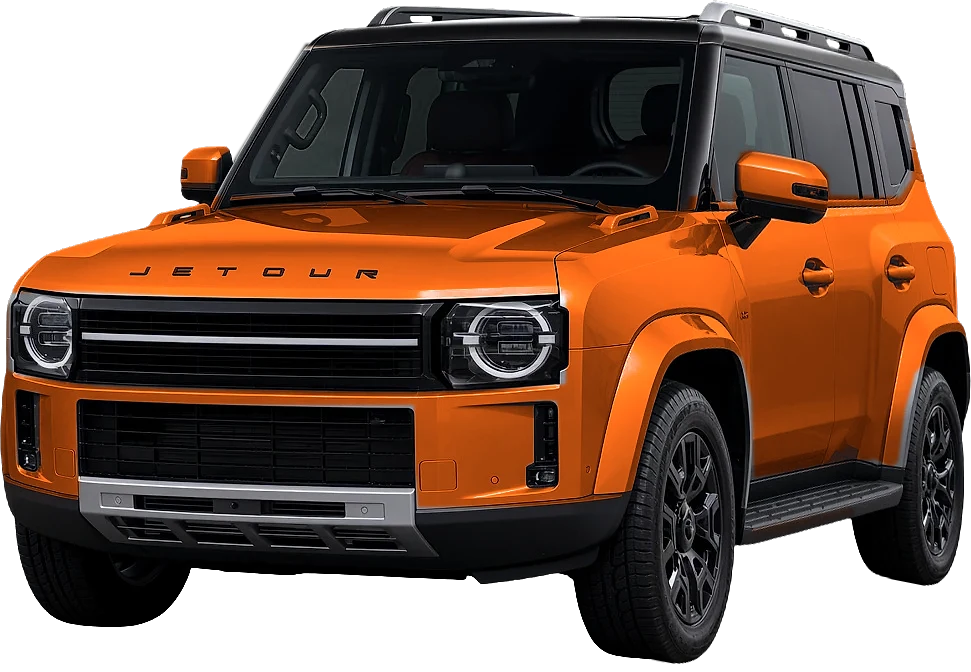
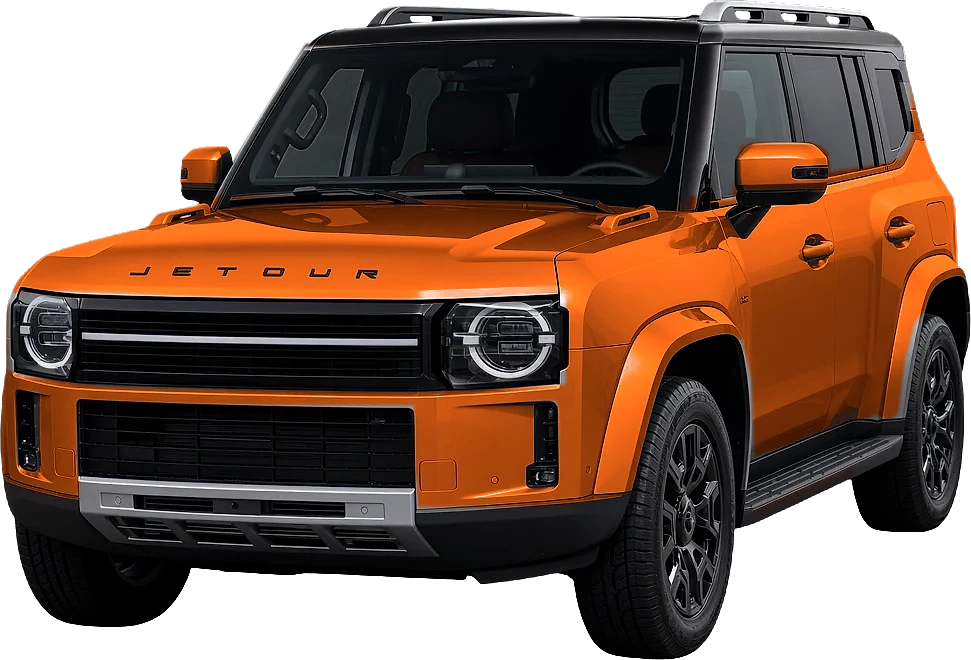
Fix Jetour hero wavy look and add Zeal brand.
Drop the side-shear that bent the car body, keep the live Jetour angle, and list Zeal with its logo for products later.

diff --git a/src/components/hero-car.tsx b/src/components/hero-car.tsx
@@ -20,17 +20,17 @@ function maskStyle(src: string): CSSProperties {
 }
 
 /**
- * Where the tyres touch the floor in the car images (971x672), in percent of its box: far front (11.3%, 93.2%),
- * near front (68%, 98.2%) and rear (94.2%, 86.9%). The rear tyre sits higher because it is further away.
+ * Where the tyres touch the floor in the car images (971x660), in percent of its box: far front (11.3%, 94.8%),
+ * near front (67.5%, 99.7%) and rear (93.2%, 80.5%). No side shear — that made the body look wavy.
  */
 const contactShadow: CSSProperties = {
   backgroundImage: [
-    "radial-gradient(5.5% 1% at 68% 98%, rgb(0 0 0), transparent)",
-    "radial-gradient(3.5% 0.9% at 94.2% 86.8%, rgb(0 0 0), transparent)",
-    "radial-gradient(5% 0.9% at 11.3% 93.1%, rgb(0 0 0), transparent)",
-    "radial-gradient(10% 2.5% at 68% 97.5%, rgb(0 0 0 / 0.9), transparent)",
-    "radial-gradient(7% 2.5% at 93.7% 86.9%, rgb(0 0 0 / 0.95), transparent)",
-    "radial-gradient(9% 2.4% at 11.3% 92.9%, rgb(0 0 0 / 0.9), transparent)",
+    "radial-gradient(5.5% 1% at 67.5% 99.5%, rgb(0 0 0), transparent)",
+    "radial-gradient(3.5% 0.9% at 93.2% 80.4%, rgb(0 0 0), transparent)",
+    "radial-gradient(5% 0.9% at 11.3% 94.7%, rgb(0 0 0), transparent)",
+    "radial-gradient(10% 2.5% at 67.5% 99%, rgb(0 0 0 / 0.9), transparent)",
+    "radial-gradient(7% 2.5% at 92.7% 80.5%, rgb(0 0 0 / 0.95), transparent)",
+    "radial-gradient(9% 2.4% at 11.3% 94.5%, rgb(0 0 0 / 0.9), transparent)",
   ].join(", "),
 };
 
@@ -39,9 +39,9 @@ const floorShade: CSSProperties = {
   backgroundImage: "radial-gradient(50% 50% at 55% 40%, rgb(0 0 0 / 0.6), rgb(0 0 0 / 0.25) 60%, transparent)",
 };
 
-/** Floor under the body, joining the three visible contact points and the hidden far rear tyre (about 37.6%, 81.8%). */
+/** Floor under the body, joining the three visible contact points and the hidden far rear tyre (about 37%, 75.6%). */
 const bodyShadowShape: CSSProperties = {
-  clipPath: "polygon(4% 91.4%, 11.3% 94.9%, 68% 99%, 96% 87.9%, 92% 84.4%, 37.6% 80.7%)",
+  clipPath: "polygon(4% 93%, 11.3% 96.5%, 67.5% 100.5%, 95% 81.5%, 91% 78%, 37% 74.5%)",
 };
 
 /**
@@ -49,8 +49,8 @@ const bodyShadowShape: CSSProperties = {
  * under the near front tyre: skewY(angle) scaleY(-1) mirrors about a line whose slope is half of tan(angle).
  */
 const reflectionHalves: CSSProperties[] = [
-  { clipPath: "inset(0 32% 0 0)", transformOrigin: "68% 98.2%", transform: "skewY(7deg) scaleY(-1)" },
-  { clipPath: "inset(0 0 0 68%)", transformOrigin: "68% 98.2%", transform: "skewY(-30.8deg) scaleY(-1)" },
+  { clipPath: "inset(0 32.5% 0 0)", transformOrigin: "67.5% 99.7%", transform: "skewY(6.7deg) scaleY(-1)" },
+  { clipPath: "inset(0 0 0 67.5%)", transformOrigin: "67.5% 99.7%", transform: "skewY(-45.5deg) scaleY(-1)" },
 ];
 
 const reflectionFade: CSSProperties = {
@@ -120,7 +120,7 @@ export function HeroCar({
 
   return (
     <div className="relative w-full lg:absolute lg:end-4 lg:bottom-[11%] lg:w-[48%]">
-      <div className="relative aspect-[971/672] w-full">
+      <div className="relative aspect-[971/660] w-full">
         <div className="absolute -inset-x-[6%] top-[72%] h-[40%] blur-lg" style={floorShade} aria-hidden />
         {reflectionHalves.map((half, index) => (
           <div

diff --git a/scripts/car-colours.ts b/scripts/car-colours.ts
@@ -25,20 +25,16 @@ const SPECULAR_FROM = 225;
 const SPECULAR_TO = 252;
 const SPECULAR_MAX = 0.75;
 /**
- * The render's camera is higher than the hero stage's, so its rear tyre touched the floor right at the stage
- * horizon and looked like it floated. The side of the car is sheared down behind the front corner: zero at the
- * corner, `SIDE_DROP` px at the rear tyre's contact point (x `REAR_CONTACT_X`). The front face does not move.
- * The corner runs from the A-pillar (x `CORNER_TOP`, above y `CORNER_TOP_Y`) to the near front tyre's contact
- * (x `CORNER_BOTTOM`, below y `CORNER_BOTTOM_Y`), so the windscreen and the front tyre's floor point stay put.
+ * Side shear used to drop the rear tyre onto the stage, but it made the Jetour body look wavy. Leave at 0 so the
+ * cut-out keeps its original shape. Constants stay for documentation if a future car needs the shear again.
  */
-const SIDE_DROP = 50;
+const SIDE_DROP = 0;
 const REAR_CONTACT_X = 905;
 const CORNER_TOP = 712;
 const CORNER_TOP_Y = 190;
 const CORNER_BOTTOM = 650;
 const CORNER_BOTTOM_Y = 330;
-/** Rows added under the cut-out, so the near front tyre's sheared back half is not cut off. */
-const BOTTOM_PAD = 12;
+const BOTTOM_PAD = 0;
 
 function toLinear(value: number): number {
   const v = value / 255;
@@ -139,8 +135,9 @@ async function main() {
       if (r > 0) paint(out, p, roofTarget, k * r);
     }
     const file = path.join("public", carImage(colour.id));
-    const result = await sharp(lowerSide(out, width, height), {
-      raw: { width, height: height + BOTTOM_PAD, channels: 4 },
+    const painted = SIDE_DROP === 0 ? out : lowerSide(out, width, height);
+    const result = await sharp(painted, {
+      raw: { width, height: height + (SIDE_DROP === 0 ? 0 : BOTTOM_PAD), channels: 4 },
     })
       .sharpen({ sigma: 0.6 })
       .webp({ quality: 88, alphaQuality: 100 })

diff --git a/PROJECT_CONTEXT.md b/PROJECT_CONTEXT.md
@@ -1,6 +1,6 @@
 # Project Context — Jabal Al Heerah Auto Paints
 
-Last updated: 2026-11-06
+Last updated: 2026-11-18
 
 ## What it is
 
@@ -108,6 +108,10 @@ Intro: Sharjah paint correction, colour matching, refinishing, detailing supplie
 
 ## Work log
 
+- 2026-11-18: Owner: keep the **live Jetour look**, only fix wavy alignment (side-angle experiment dropped). Restored `jetour-t2-base-3.jpg` pipeline at **971x660**, `SIDE_DROP = 0` (no body shear), hero contacts/reflections for the unsheared car. Not deployed.
+- 2026-11-18: Owner: show more of the Jetour's **side angle** (front can be less). (dropped; owner preferred the live angle). New source `jetour-t2-side-angle-2.jpg` (assets); cut-out **1079x575**. Glass/roof/exclude SVGs re-measured. No side shear. Hero `aspect-[1079/575]`, contact points far 11.4%/92.5%, near 47%/99.8%, rear 90.1%/84%. Default still light grey, black roof. Not deployed.
+- 2026-11-18: Owner: keep the **Jetour T2** (not Patrol) and remove the wavy look. Cause was `SIDE_DROP` side-shear in `scripts/car-colours.ts` that bent the body. Fix: `SIDE_DROP = 0`, skip `lowerSide` when zero, outputs back to **971x660**. Hero contact points/reflections restored for the unsheared cut-out (`aspect-[971/660]`). Default colour again `lightGrey`. Zeal brand from the same session stays. Not deployed.
+- 2026-11-18: Owner: replace the Jetour T2 hero car with a **Nissan Patrol 2026 (Y63)** and add brand **Zeal**. (reverted car to Jetour later the same day; Zeal kept). (1) New silver metallic chroma render `nissan-patrol-2026-silver-chroma.jpg` (assets folder); cut-out **1050x523**, painted outputs **1050x531** (`BOTTOM_PAD` 8). Default colour is `silver` (`config/car-colours.ts` `photoCarColour`); messages en/ar updated (`carAlt` Patrol, swatch "Silver"/"فضي"). Roof stays body colour (`scripts/suv-roof.svg` empty — no forced gloss black). Paint exclude/glass SVGs re-measured for the Patrol; side shear `SIDE_DROP` 28 px so the rear tyre sits on the stage. `hero-car.tsx` keeps the same layout (`lg:end-4 lg:bottom-[11%] lg:w-[48%]`), aspect `1050/531`, contact points far 13.1%/92.7%, near 48.4%/98.3%, rear 90.4%/90.6%. (2) Brand Zeal: `data/brands-extra.csv` + `data/brand-logos.csv` (light), logo from Zeal Lubricants trademark (CIPO) → `public/brands/zeal.webp`, import re-run → 46 brands, Zeal shows "Products coming soon" on `/en/brands`. Not deployed.
 - 2026-11-13: **Deployed.** Team DevNinjaz is still on the Free plan, but the monthly credits reset (team created 13 Oct). Netlify deploy `6af7601930f02c4e0c96ac4e` from commit `539699b` is live on https://jabalheerah.ae. Checked live: `/en`, `/ar`, `/en/brands` (37 brand logos), Kapci 3.5 KG page (Grey/Yellow, "Ask for price"), old Kapci grey URL returns 308 to the new one, new hours (8:30) on the site. All pending work (hours, accident flyer section, Ask for price, Kapci products, brand logos) is now live.
 - 2026-11-06 (15:00): Brand logos added for 37 of 45 brands (official sites, Wikimedia, brand press kits; source files in `C:\Users\sal\.cursor\projects\d-Jabal-Heerah-master\assets\brand-logos\`). Brands page and the home "Brands" cards now show the logo on a white card (dark card for Farecla, Numix, Turtle Wax, whose logos are white). Not found: X-Pro 99, Dixie, E2, EasiCoat, KnM, Safety Pro (ask owner for logo files, drop them in the folder, add a CSV row, re-run `scripts/brand-logos.ts` and `npm run import:catalog`). Other and Polisher are not real brands, so they keep a product photo. Small source files (a bit soft when large): Liberty, Italco, Sprint, Mido, Ritver, Polikor. Brands with no logo and no photo now show their name centred in the card. New: `src/types/content.ts` `Brand.logo`/`logoBackground`, importer block after `brands.sort`, `brand-media.tsx`. Checked in the browser at desktop and phone width. Not deployed (Netlify credits). Dev note: on this D: drive `.next/prerender-manifest.json` can get leftover bytes after the JSON (ftruncate fails), which makes every page 500 with "JSON at position 512"; trim the file back to valid JSON (or delete `.next` and restart).
 - 2026-11-06 (14:40): Owner will buy a paid Netlify plan before any more deploys. Ugarit-based changes are on hold until then.

diff --git a/data/import-report.md b/data/import-report.md
@@ -1,6 +1,6 @@
 # Catalog import
 
-Date: 2026-11-06
+Date: 2026-11-18
 
 - Source rows: 1285
 - Products written: 1228
